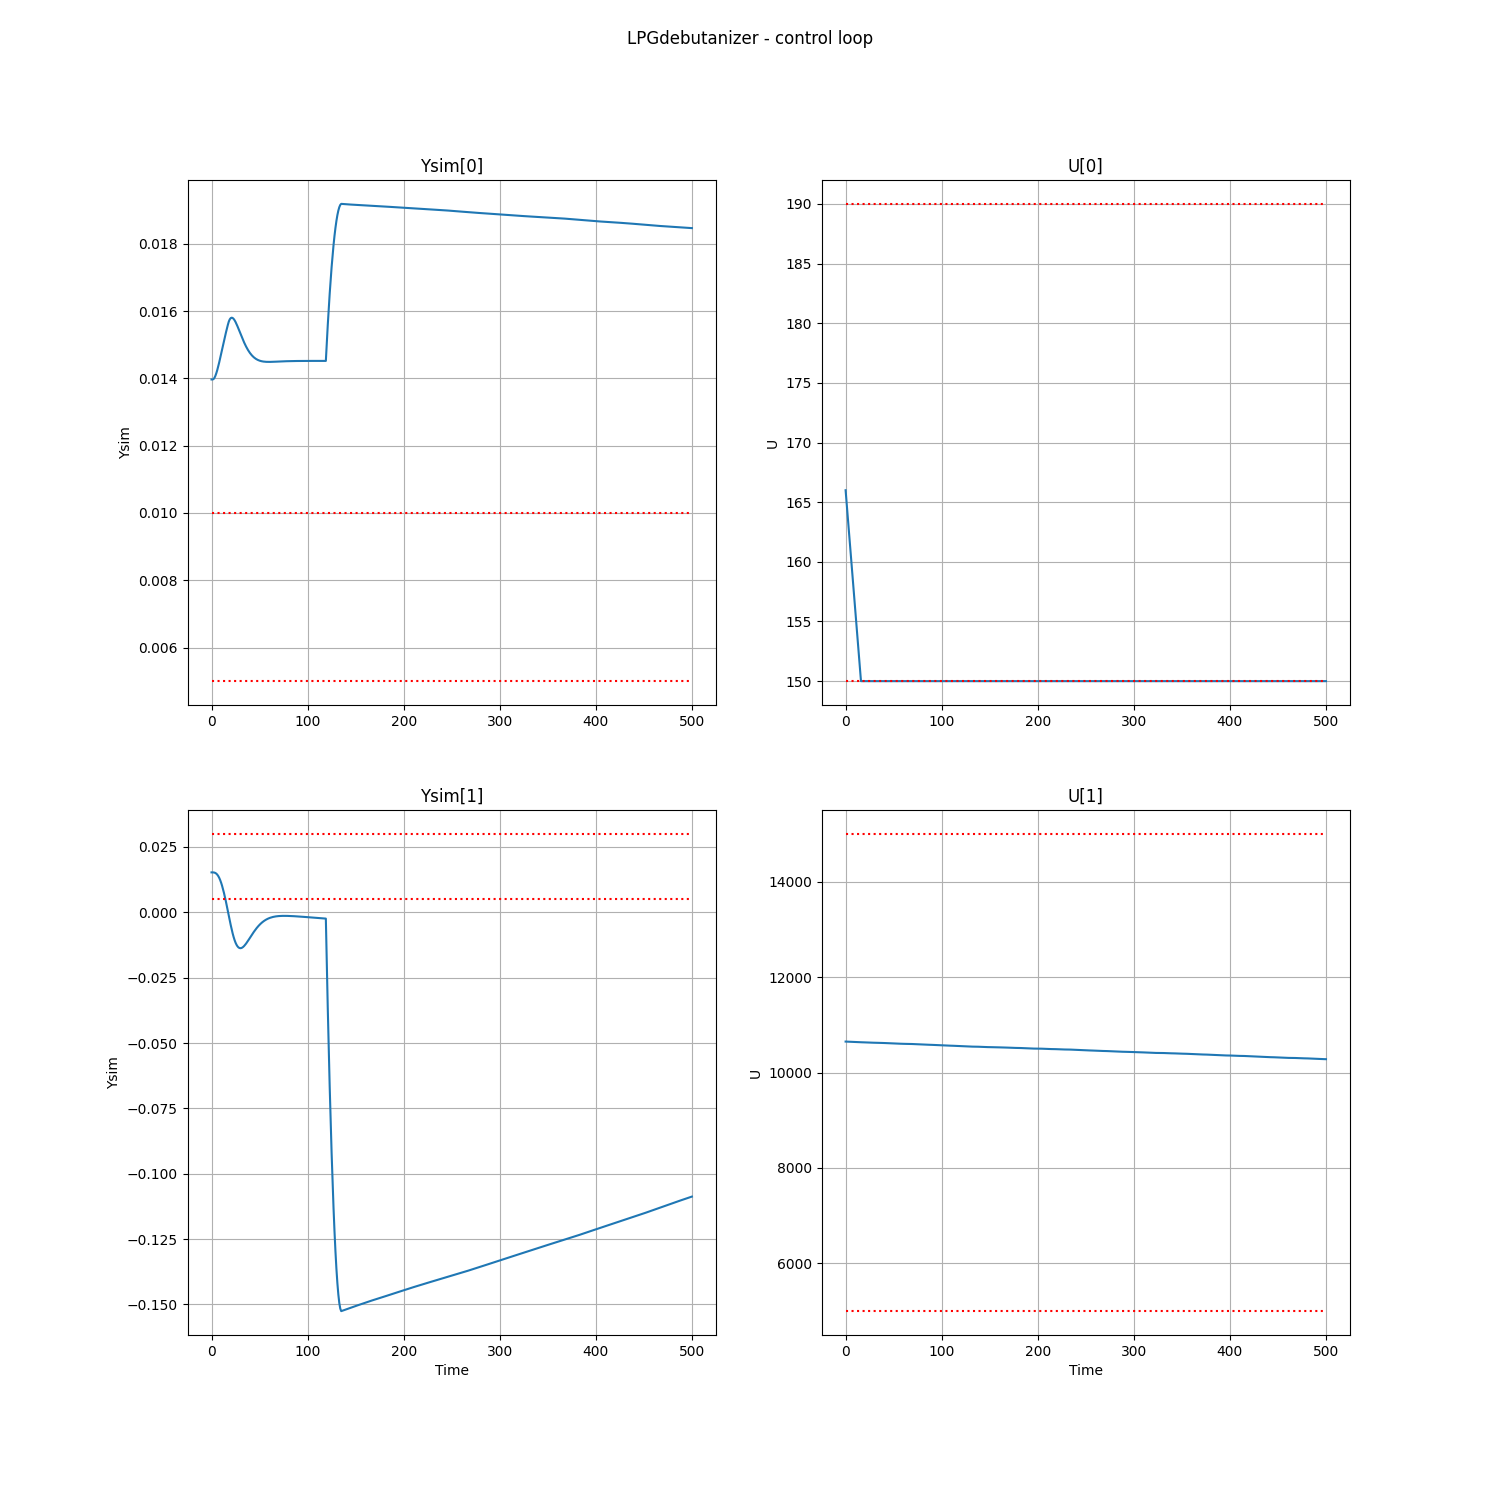
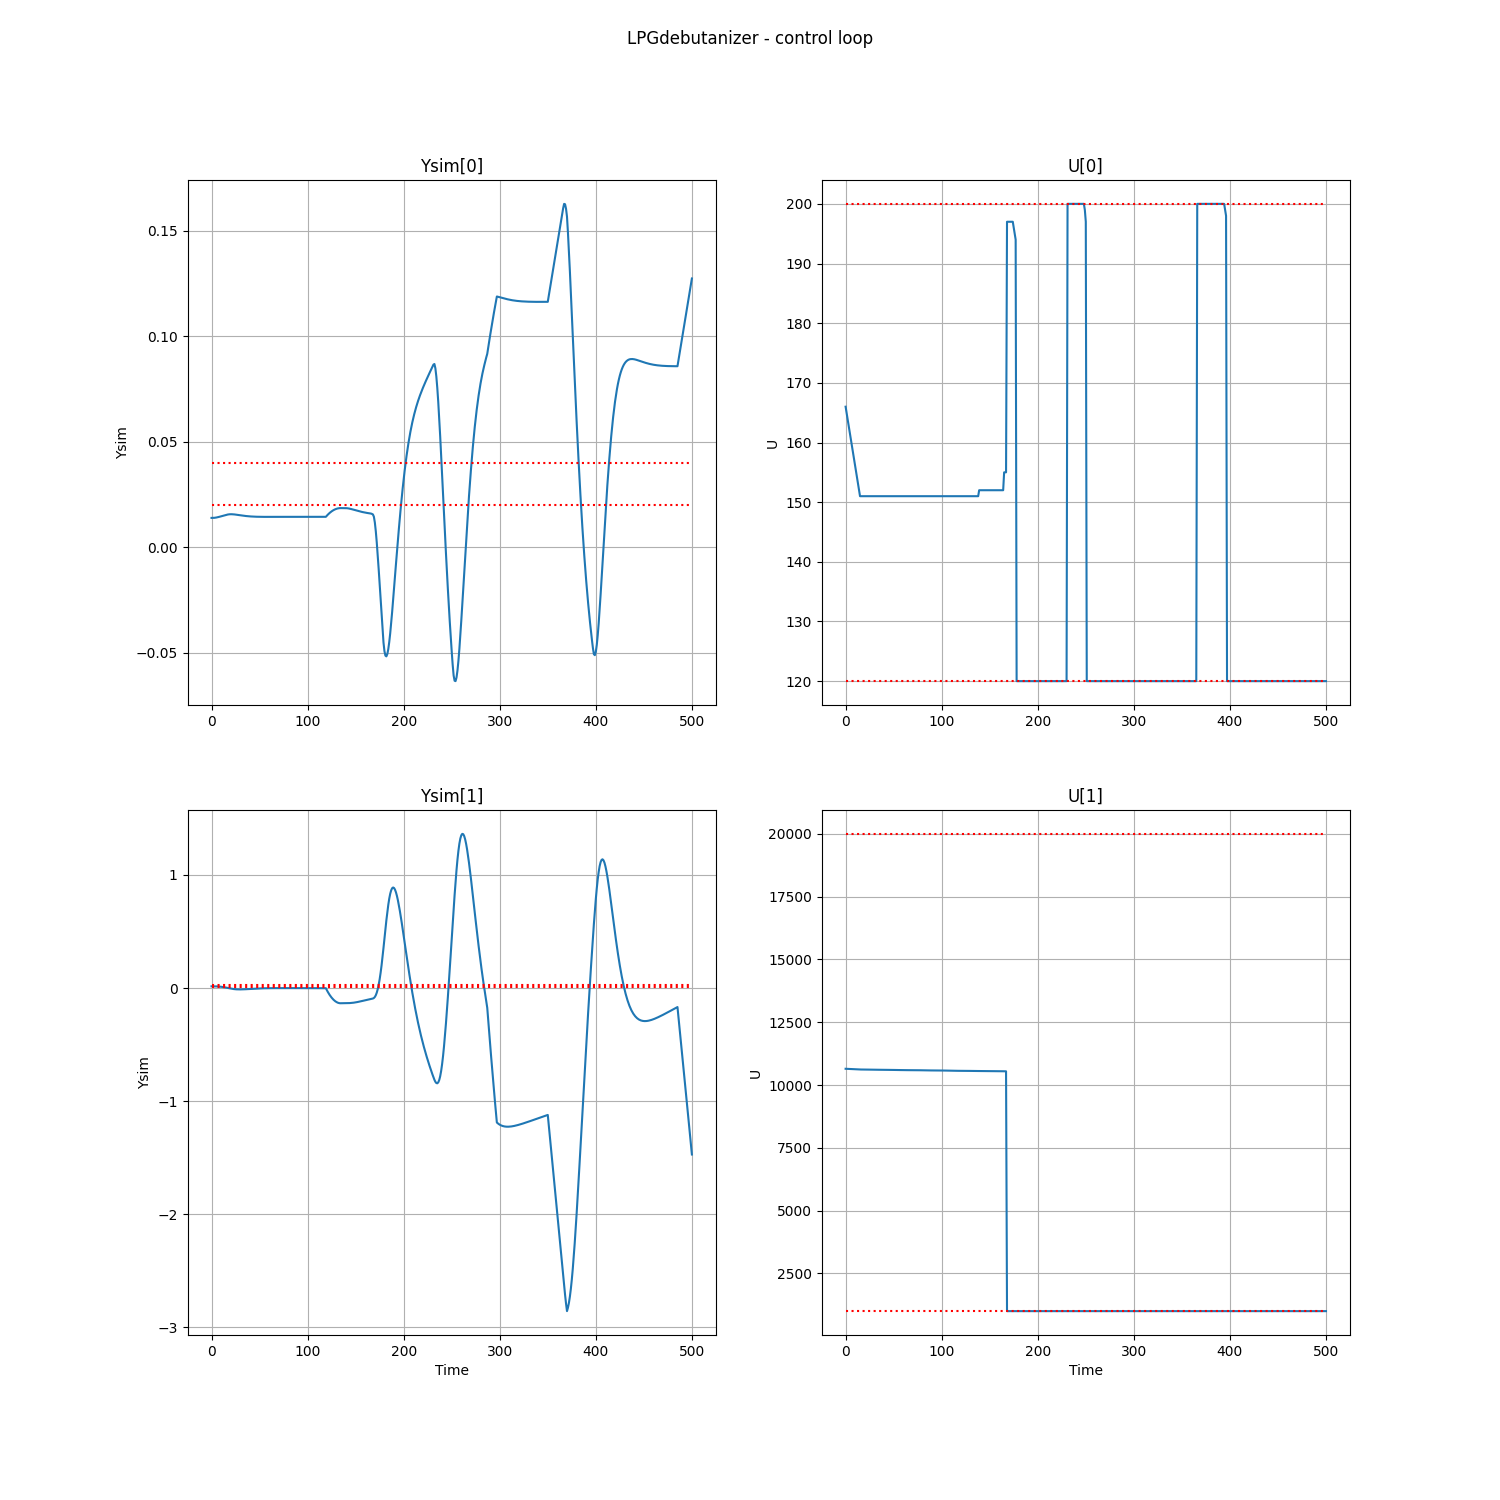
first

diff --git a/01-LPGdebutanizerSimTest.py b/01-LPGdebutanizerSimTest.py
@@ -38,13 +38,13 @@ plot_simulation_results(YsimTest, Utest, tsimTest, 'LPGdebutanizer - test')
 n = 120  # Stabilizing horizon
 p = 120  # Output prediction horizon
 m = 3  # Control horizon
-umax = np.array([190, 15000])
-umin = np.array([150, 5000])
-ymax = np.array([0.01, 0.03])
-ymin = np.array([0.005, 0.005])
-dumax = np.array([0.25, 5])
-q = np.array([100000, 100000])  # Output weights
-r = np.array([10000, 10000])  # Input weights
+umax = np.array([200, 20000])
+umin = np.array([120, 1000])
+ymax = np.array([0.04, 0.03])
+ymin = np.array([0.02, 0.005])
+dumax = np.array([0.1, 1])
+q = np.array([1000000, 1000000])  # Output weights
+r = np.array([100000, 100000])  # Input weights
 
 # Control loop simulation
 tsim = np.linspace(0, nsim * T, nsim + 1)  # Simulation Time vector
@@ -61,6 +61,7 @@ for t in range(nsim + 1):
         Usim[:, t:] = u_opt.reshape(-1, 1)
         # Simulate
         Ysim, delta_U = simulateMIMO(Gpstep, tsim, ny, nu, y0, u0, Usim)
+        print(delta_U[:, t])
         # Update Y0 and U0 for the next step
         y0temp = Ysim[:, t]
         u0temp = Usim[:, t]

diff --git a/src/mpc.py b/src/mpc.py
@@ -115,6 +115,7 @@ def simulateMIMO(Gstep, tsim, ny, nu, y0, u0, U):
             Y[j, t] = y
     return Y, delta_U
 
+
 def mpc_controller_scipy_minimize(ny, nu, T, n, p, m, umax, umin, ymax, ymin, dumax, q, r, u0temp,
                                   y0temp, Gstep):
     # Define the control objective function
@@ -173,7 +174,7 @@ def mpc_controller_scipy_minimize(ny, nu, T, n, p, m, umax, umin, ymax, ymin, du
         U_ = U_flatted.reshape((nu, m))
         u0_ = u0temp.reshape(-1, 1)
         U_ = np.hstack((u0_, U_))
-        du_ = np.diff(U_, axis=1)
+        du_ = np.diff(U_, axis=1)        
         dumax_reshaped = np.tile(dumax, (m, 1)).T
         dumax_constraint = dumax_reshaped - np.abs(du_)
         return dumax_constraint.flatten()  # g(x) > =0
